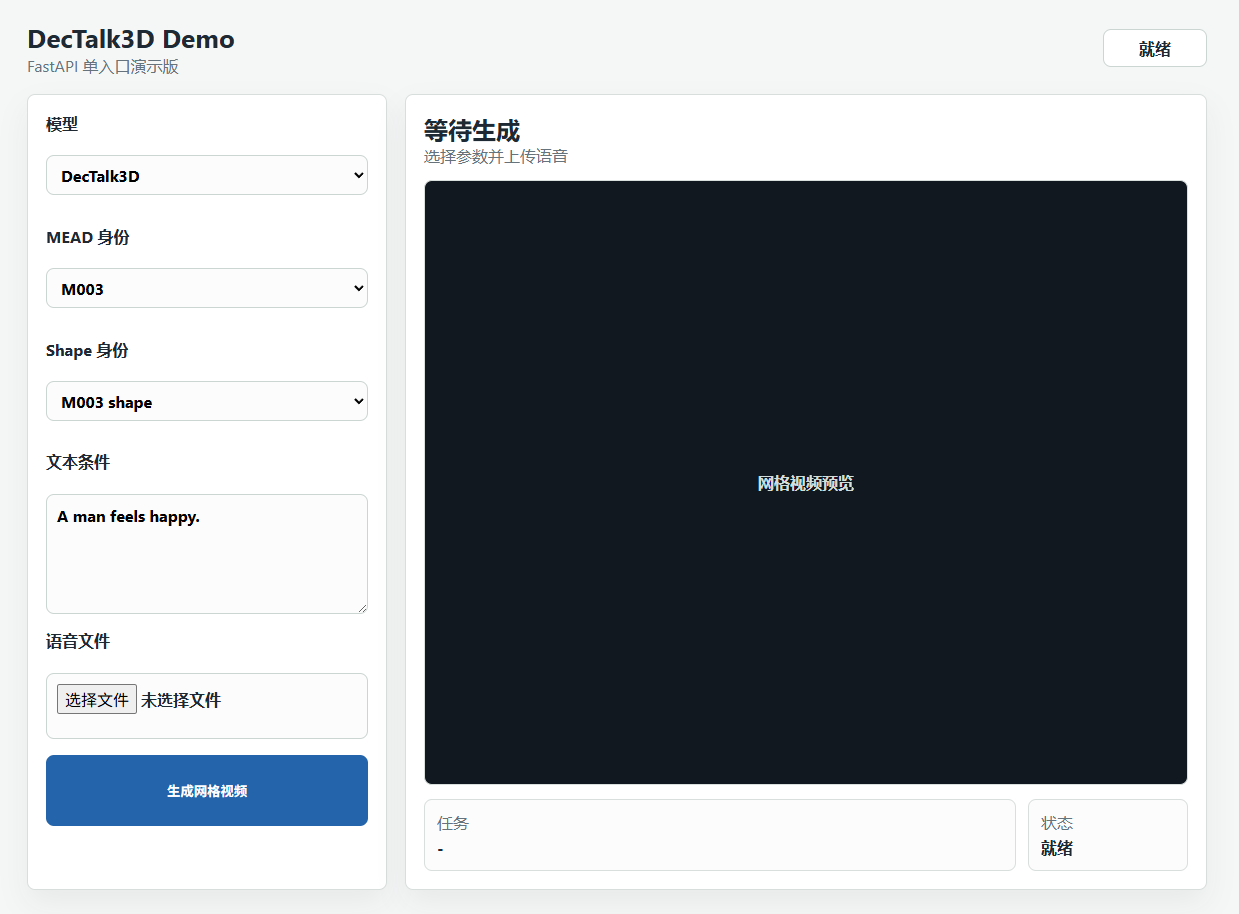
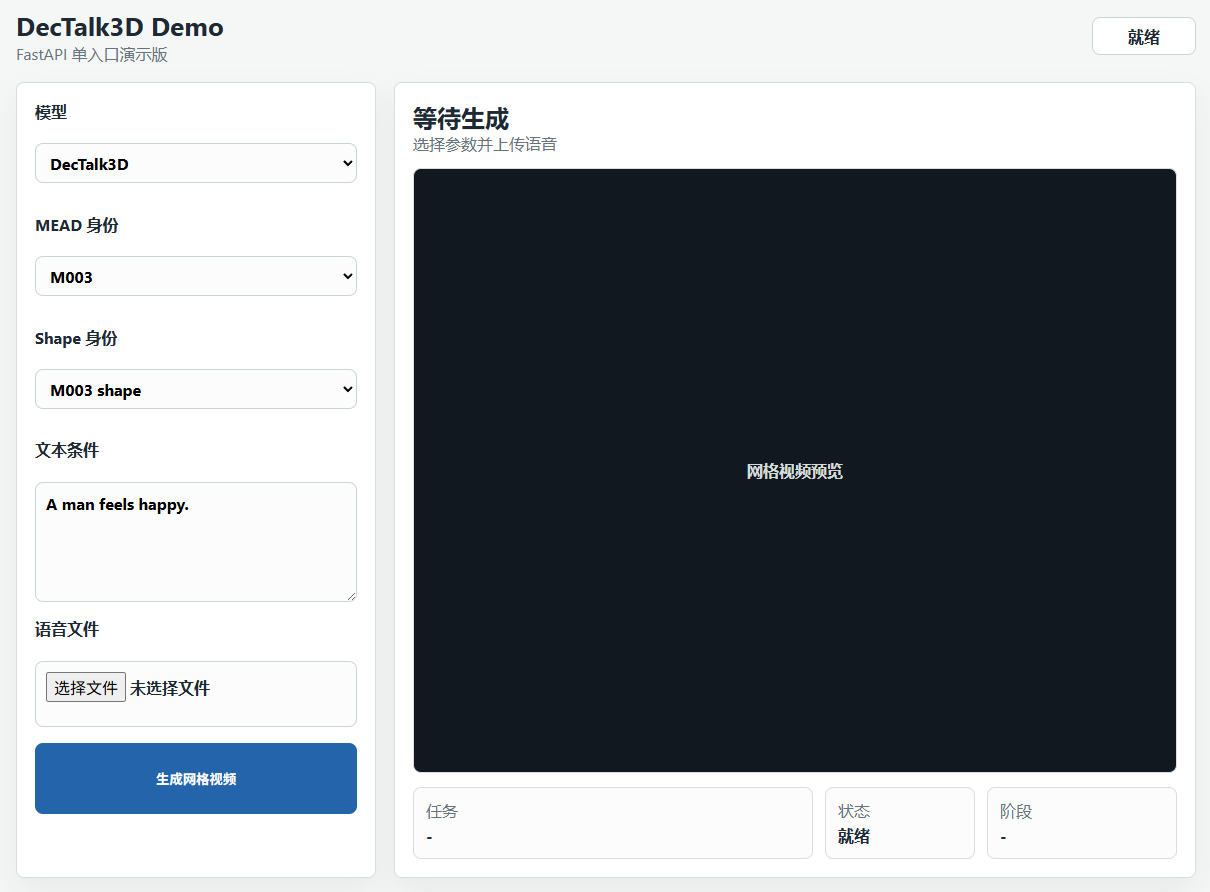
完善界面

diff --git a/web/app.js b/web/app.js
@@ -10,6 +10,7 @@ const resultTitle = document.getElementById("result-title");
 const resultSubtitle = document.getElementById("result-subtitle");
 const jobId = document.getElementById("job-id");
 const jobStatus = document.getElementById("job-status");
+const jobProgress = document.getElementById("job-progress");
 const video = document.getElementById("video");
 const placeholder = document.getElementById("placeholder");
 const download = document.getElementById("download");
@@ -22,9 +23,13 @@ const labels = {
   Ready: "就绪",
 };
 
-function setStatus(value) {
-  statusBox.textContent = labels[value] || value;
-  jobStatus.textContent = labels[value] || value;
+function setStatus(value, progress = "") {
+  const label = labels[value] || value;
+  const text = progress && value === "running" ? `${label}：${progress}` : label;
+  statusBox.textContent = text;
+  jobStatus.textContent = label;
+  jobProgress.textContent = progress || "-";
+  statusBox.dataset.status = value;
 }
 
 function fillSelect(select, items, getValue, getLabel) {
@@ -51,7 +56,7 @@ function currentShapeLabel() {
 
 function showJob(job) {
   jobId.textContent = job.id || "-";
-  setStatus(job.status || "Ready");
+  setStatus(job.status || "Ready", job.progress || "");
   resultTitle.textContent = modelSelect.options[modelSelect.selectedIndex]?.textContent || job.model;
   resultSubtitle.textContent = `${job.person_id || personSelect.value} / ${job.shape_id || currentShapeLabel()}`;
   message.textContent = job.status === "failed" ? job.error || "生成失败，请查看终端日志。" : "";
@@ -68,12 +73,19 @@ function showJob(job) {
 
 async function pollJob(id) {
   const timer = window.setInterval(async () => {
-    const response = await fetch(`/api/jobs/${id}`);
-    const job = await response.json();
-    showJob(job);
-    if (job.status === "completed" || job.status === "failed") {
+    try {
+      const response = await fetch(`/api/jobs/${id}`);
+      const job = await response.json();
+      showJob(job);
+      if (job.status === "completed" || job.status === "failed") {
+        window.clearInterval(timer);
+        submitButton.disabled = false;
+      }
+    } catch {
       window.clearInterval(timer);
       submitButton.disabled = false;
+      setStatus("failed", "连接中断");
+      message.textContent = "无法连接后端服务，请确认 run_app.py 是否仍在运行。";
     }
   }, 1500);
 }
@@ -98,7 +110,7 @@ submitButton.addEventListener("click", async () => {
   form.append("audio", file);
 
   submitButton.disabled = true;
-  setStatus("queued");
+  setStatus("queued", "等待提交");
   const response = await fetch("/api/jobs", { method: "POST", body: form });
   const job = await response.json();
   if (!response.ok) {
@@ -107,8 +119,19 @@ submitButton.addEventListener("click", async () => {
     return;
   }
   showJob(job);
+  await pollOnce(job.id);
   pollJob(job.id);
 });
+
+async function pollOnce(id) {
+  try {
+    const response = await fetch(`/api/jobs/${id}`);
+    const job = await response.json();
+    showJob(job);
+  } catch {
+    message.textContent = "任务已提交，但暂时无法刷新状态。";
+  }
+}
 
 loadOptions().catch(() => {
   message.textContent = "后端服务不可用，请确认 run_app.py 已启动。";

diff --git a/web/index.html b/web/index.html
@@ -4,7 +4,7 @@
     <meta charset="UTF-8" />
     <meta name="viewport" content="width=device-width, initial-scale=1.0" />
     <title>DecTalk3D Demo</title>
-    <link rel="stylesheet" href="/web/styles.css?v=20260603-5" />
+    <link rel="stylesheet" href="/web/styles.css?v=20260605-ui1" />
   </head>
   <body>
     <main class="shell">
@@ -70,10 +70,14 @@
               <span>状态</span>
               <strong id="job-status">就绪</strong>
             </div>
+            <div>
+              <span>阶段</span>
+              <strong id="job-progress">-</strong>
+            </div>
           </div>
         </section>
       </section>
     </main>
-    <script src="/web/app.js?v=20260603-5"></script>
+    <script src="/web/app.js?v=20260605-ui1"></script>
   </body>
 </html>

diff --git a/web/styles.css b/web/styles.css
@@ -113,6 +113,25 @@ textarea {
   background: #fff;
 }
 
+.status[data-status="running"],
+.status[data-status="queued"] {
+  border-color: #b9c8dc;
+  background: #eef5ff;
+  color: #235184;
+}
+
+.status[data-status="completed"] {
+  border-color: #b8c9bf;
+  background: #e8f1ec;
+  color: #245b3d;
+}
+
+.status[data-status="failed"] {
+  border-color: #d5b2b2;
+  background: #faeded;
+  color: #8d2f2f;
+}
+
 .primary {
   min-height: 42px;
   border: 0;
@@ -178,7 +197,7 @@ textarea {
 
 .job-info {
   display: grid;
-  grid-template-columns: 1fr 160px;
+  grid-template-columns: minmax(0, 1fr) 150px 190px;
   gap: 12px;
   margin-top: 14px;
 }

diff --git a/run_app.py b/run_app.py
@@ -1,26 +1,104 @@
 from __future__ import annotations
 
+import argparse
+import importlib.util
 import sys
+import threading
 import time
+import urllib.request
 import webbrowser
 
-import uvicorn
+
+REQUIRED_MODULES = {
+    "fastapi": "fastapi",
+    "uvicorn": "uvicorn[standard]",
+    "multipart": "python-multipart",
+    "yaml": "pyyaml",
+}
+
+
+def ensure_dependencies() -> None:
+    missing = [
+        package
+        for module, package in REQUIRED_MODULES.items()
+        if importlib.util.find_spec(module) is None
+    ]
+    if not missing:
+        return
+
+    print("当前 Python 环境缺少启动 WebUI 所需依赖：", flush=True)
+    for package in missing:
+        print(f"  - {package}", flush=True)
+    print("", flush=True)
+    print("请先激活项目环境后再运行：", flush=True)
+    print("  conda activate dectalk-demo", flush=True)
+    print("  python run_app.py", flush=True)
+    print("", flush=True)
+    print("如果环境尚未安装依赖，请按 README 安装 requirements.txt。", flush=True)
+    raise SystemExit(1)
+
+
+def wait_until_ready(url: str, timeout: float = 20.0) -> bool:
+    deadline = time.time() + timeout
+    while time.time() < deadline:
+        try:
+            with urllib.request.urlopen(f"{url}/api/health", timeout=1) as response:
+                return response.status == 200
+        except Exception:
+            time.sleep(0.3)
+    return False
+
+
+def open_browser_when_ready(url: str) -> None:
+    if wait_until_ready(url):
+        try:
+            webbrowser.open(url, new=2)
+        except Exception as exc:
+            print(f"自动打开浏览器失败：{exc}", flush=True)
+            print(f"请手动打开：{url}", flush=True)
+    else:
+        print(f"服务启动较慢，请稍后手动打开：{url}", flush=True)
+
+
+def stop_on_enter(server) -> None:
+    try:
+        input()
+    except EOFError:
+        return
+    server.should_exit = True
 
 
 def main() -> None:
-    host = "127.0.0.1"
-    port = 8000
+    ensure_dependencies()
+
+    import uvicorn
+
+    parser = argparse.ArgumentParser(description="启动 DecTalk3D WebUI")
+    parser.add_argument("--host", default="127.0.0.1")
+    parser.add_argument("--port", default=8000, type=int)
+    parser.add_argument("--no-browser", action="store_true", help="启动后不自动打开浏览器")
+    args = parser.parse_args()
+
+    host = args.host
+    port = args.port
     url = f"http://{host}:{port}"
-    print(f"DecTalk3D demo 已启动：{url}")
-    print("按 Ctrl+C 停止服务。")
+    print(f"DecTalk3D demo 正在启动：{url}", flush=True)
+    if not args.no_browser:
+        print("服务启动后会自动打开网页。", flush=True)
 
-    try:
-        time.sleep(0.5)
-        webbrowser.open(url)
-    except Exception:
-        pass
+    can_stop_with_enter = sys.stdin is not None and sys.stdin.isatty()
+    if can_stop_with_enter:
+        print("按 Enter 停止服务，也可以按 Ctrl+C 退出。", flush=True)
+    else:
+        print("服务会持续运行；按 Ctrl+C 停止。", flush=True)
 
-    uvicorn.run("app:app", host=host, port=port, reload=False)
+    config = uvicorn.Config("app:app", host=host, port=port, reload=False)
+    server = uvicorn.Server(config)
+    if not args.no_browser:
+        threading.Thread(target=open_browser_when_ready, args=(url,), daemon=True).start()
+    if can_stop_with_enter:
+        threading.Thread(target=stop_on_enter, args=(server,), daemon=True).start()
+    server.run()
 
 
 if __name__ == "__main__":

diff --git a/src/core/job_store.py b/src/core/job_store.py
@@ -1,6 +1,7 @@
 from __future__ import annotations
 
 import json
+import os
 import subprocess
 import sys
 import uuid
@@ -77,6 +78,7 @@ def create_job(
         "vertices_path": None,
         "drive_params_path": None,
         "log_path": str(job_dir(settings, job_id) / "worker.log"),
+        "progress": "等待启动",
         "error": None,
     }
     write_job(settings, job_id, payload)
@@ -86,26 +88,40 @@ def create_job(
 def run_worker(settings: DemoSettings, job_id: str) -> None:
     path = job_file(settings, job_id)
     log_path = job_dir(settings, job_id) / "worker.log"
+    patch_job(settings, job_id, status="running", progress="启动推理进程", error=None)
     # 推理过程会加载大模型，放到独立子进程里执行，避免阻塞 FastAPI 主进程。
     command = [
         sys.executable,
+        "-u",
         "-m",
         "src.workers.run_inference",
         "--job-file",
         str(path),
     ]
+    env = {
+        **os.environ,
+        "PYTHONUNBUFFERED": "1",
+        "PYTHONIOENCODING": "utf-8",
+    }
     with log_path.open("w", encoding="utf-8", errors="replace") as log:
         log.write(f"Command: {' '.join(command)}\n\n")
         log.flush()
         result = subprocess.run(
             command,
             cwd=str(settings.root),
+            env=env,
             stdout=log,
             stderr=subprocess.STDOUT,
             check=False,
         )
 
     payload = read_job(settings, job_id)
+    if payload.get("status") == "completed" and payload.get("progress") != "完成":
+        patch_job(settings, job_id, progress="完成")
+        return
+    if payload.get("status") == "failed" and payload.get("progress") != "失败":
+        patch_job(settings, job_id, progress="失败")
+        return
     if payload.get("status") == "running":
         # 子进程异常退出但没有写失败状态时，在任务文件里补一条可读错误。
         tail = ""
